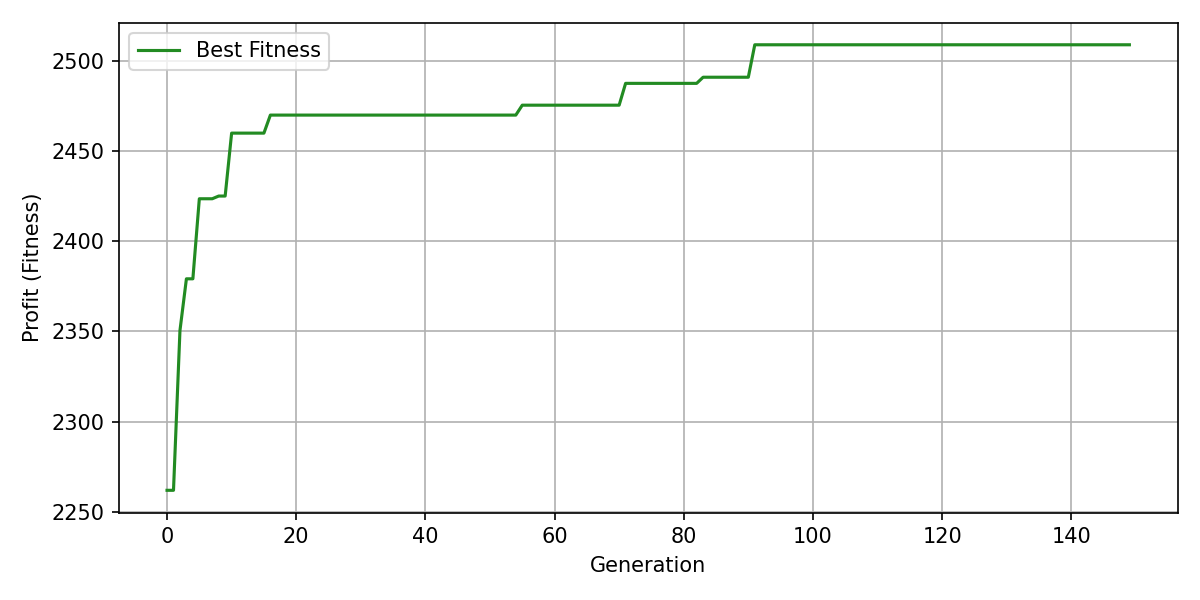
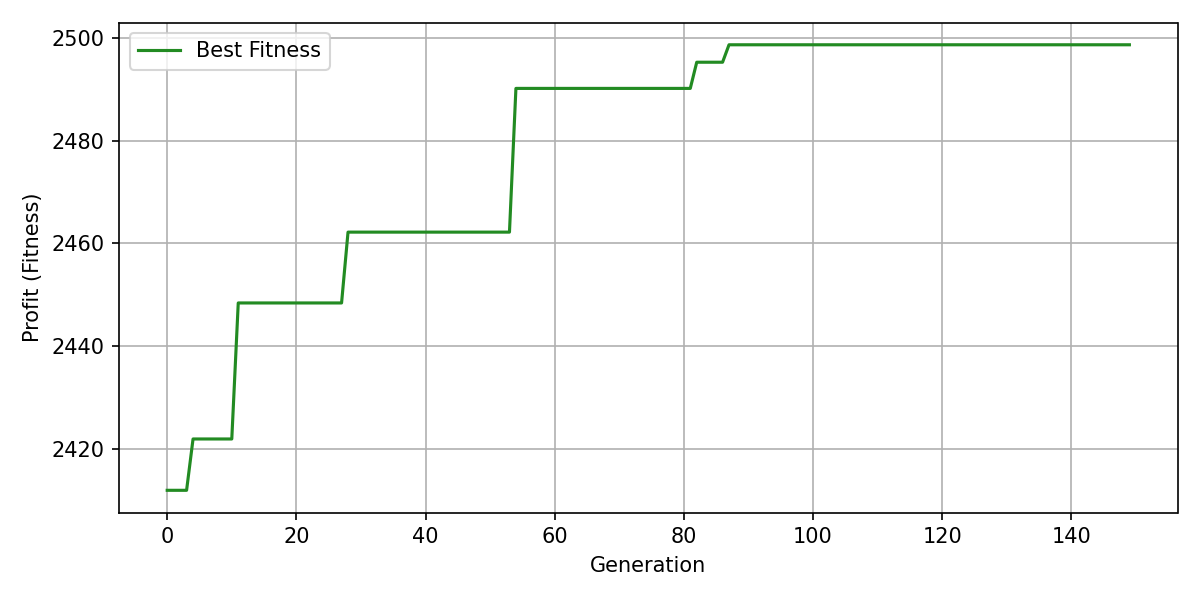
ga fixed seed

diff --git a/Q3/src/task_3/domain/usecases/genetic_algorithm_usecase.py b/Q3/src/task_3/domain/usecases/genetic_algorithm_usecase.py
@@ -35,7 +35,7 @@ class GeneticAlgorithmUseCase:
         return {"best_params": best_params, "best_profit": best_profit, "all_results": results}
 
     def findBestProjects(self, instance: AllocationInstance, pop_size: int = 100, generations: int = 150, crossover_rate: float = 0.8) -> Tuple[AllocationSolution, List[float]]:
-        
+        np.random.seed(42)
         N = len(instance.projects)
         mutation_rate = 1.0 / N
         tournament_size = 3
